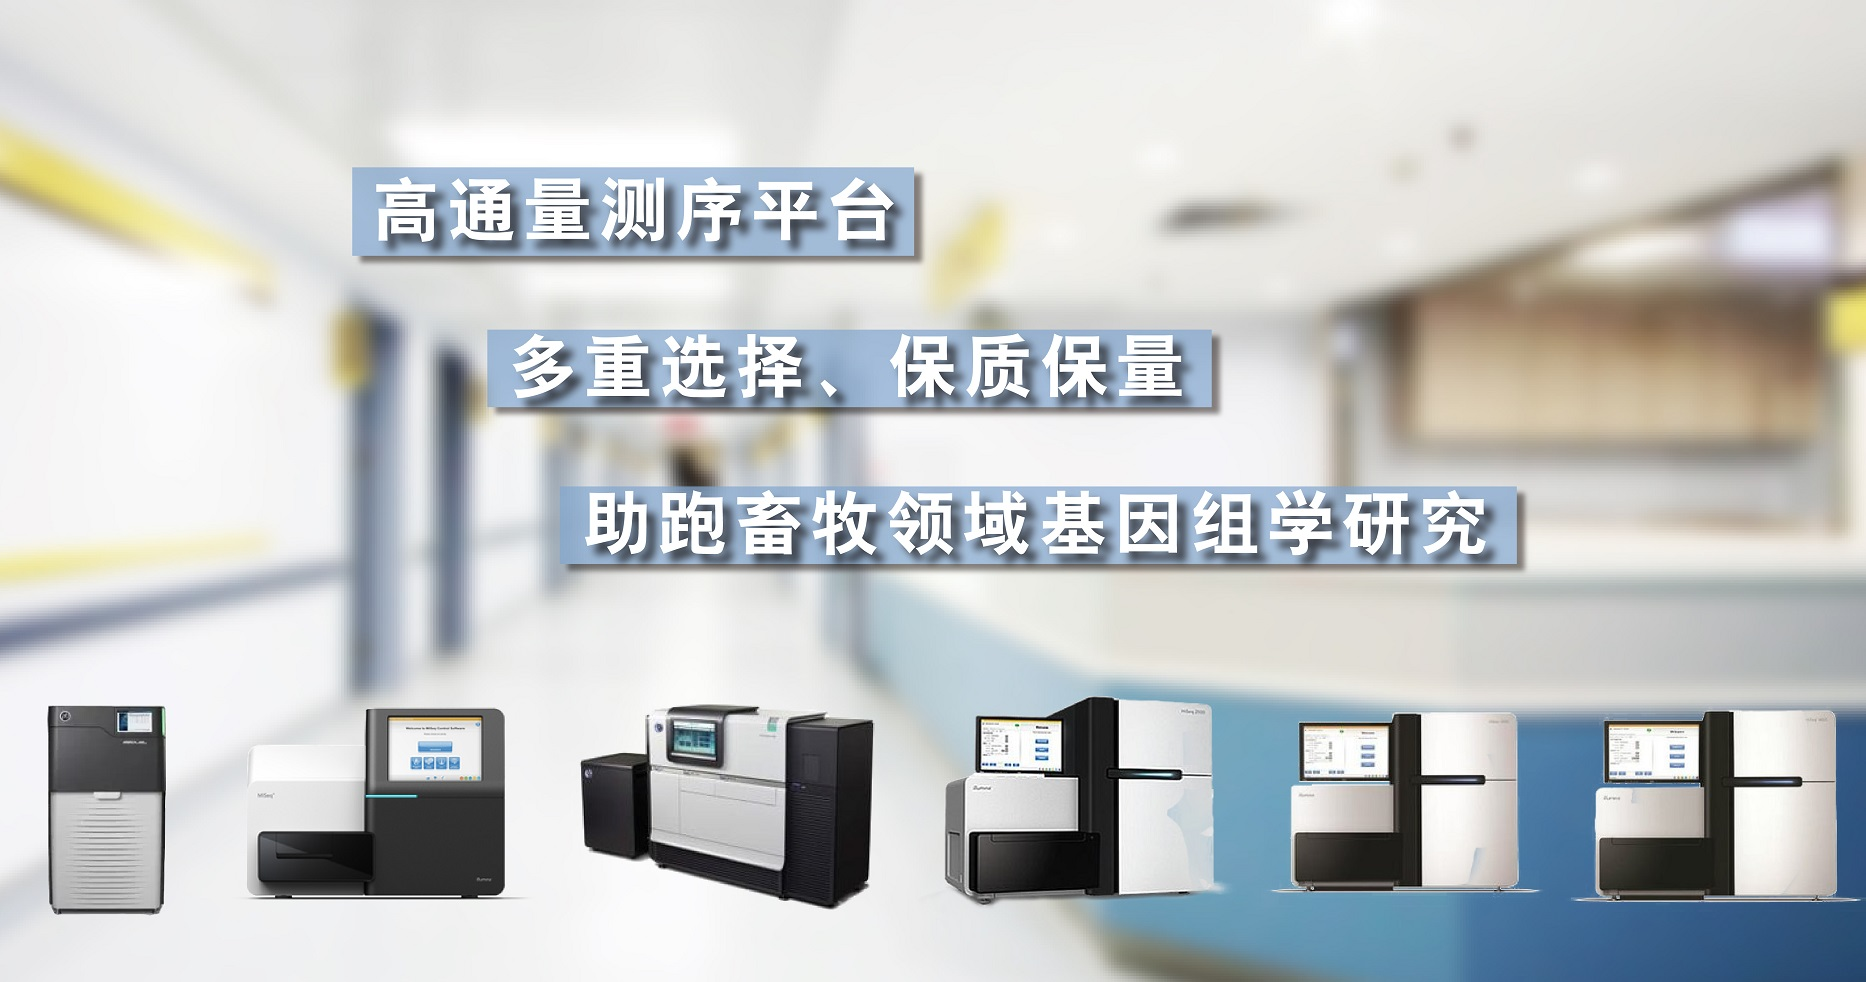
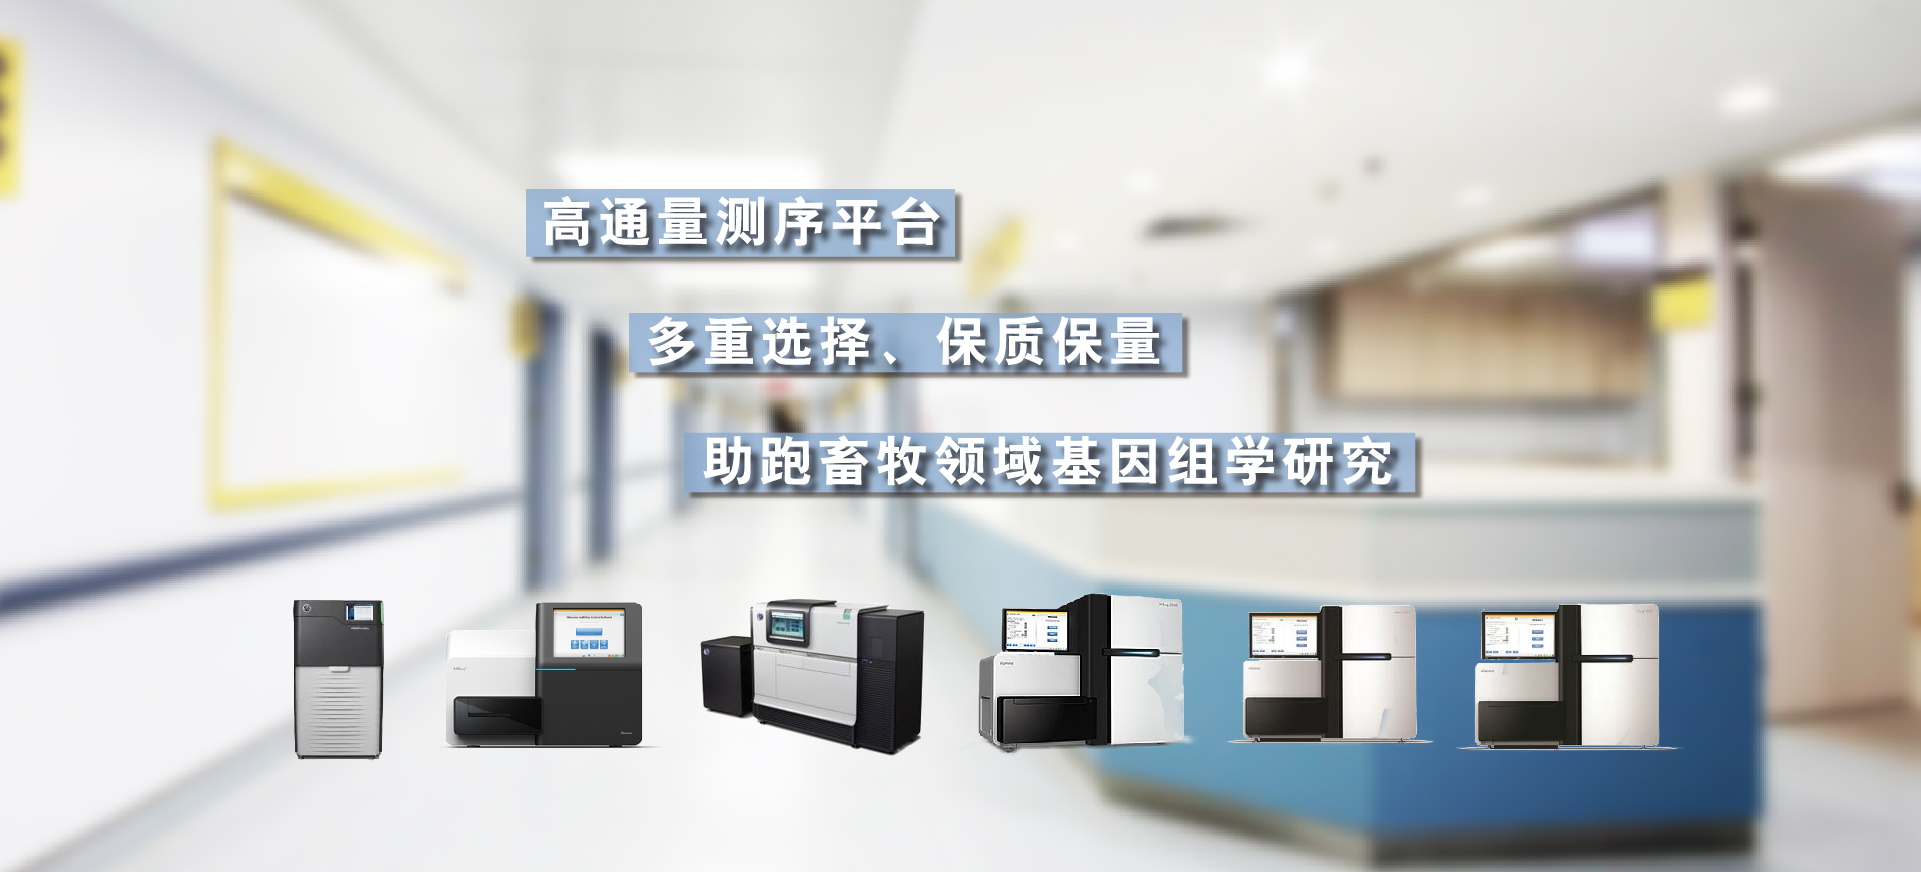
slide1 modify

diff --git a/static/css/flexslider.css b/static/css/flexslider.css
@@ -53,7 +53,7 @@ html[xmlns] .slides {display: block;}
 
 /* FlexSlider Default Theme
 *********************************/
-.flexslider { position: relative; zoom: 1; max-height:  900px; }
+.flexslider { position: relative; zoom: 1; max-height:  870px; }
 .flex-viewport { max-height: 2000px; -webkit-transition: all 1s ease; -moz-transition: all 1s ease; -o-transition: all 1s ease; transition: all 1s ease; }
 .loading .flex-viewport { max-height: 300px; }
 .flexslider .slides { zoom: 1; }
